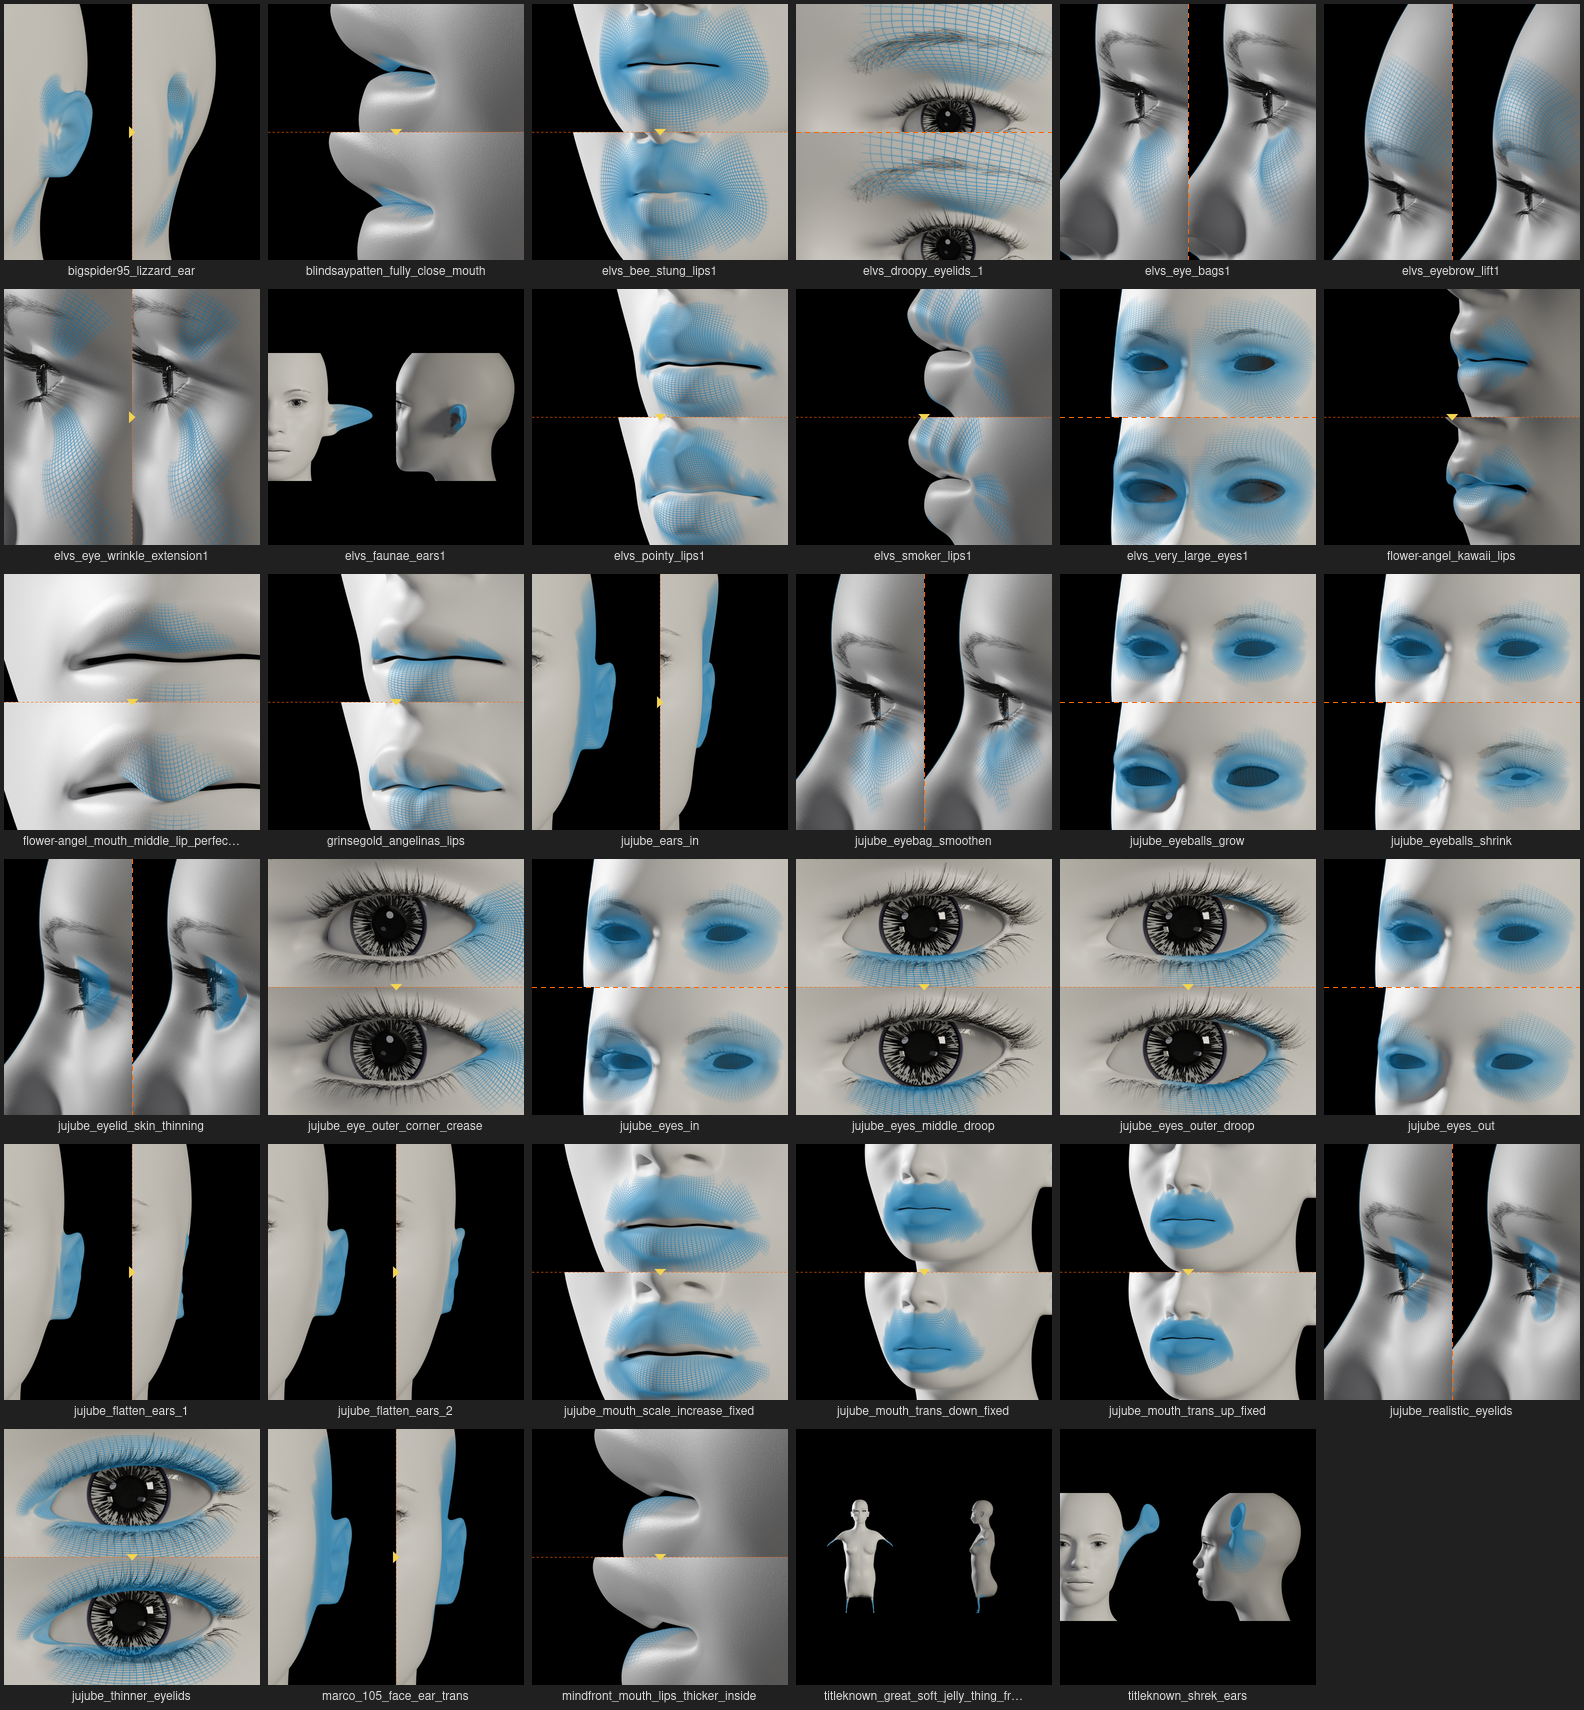
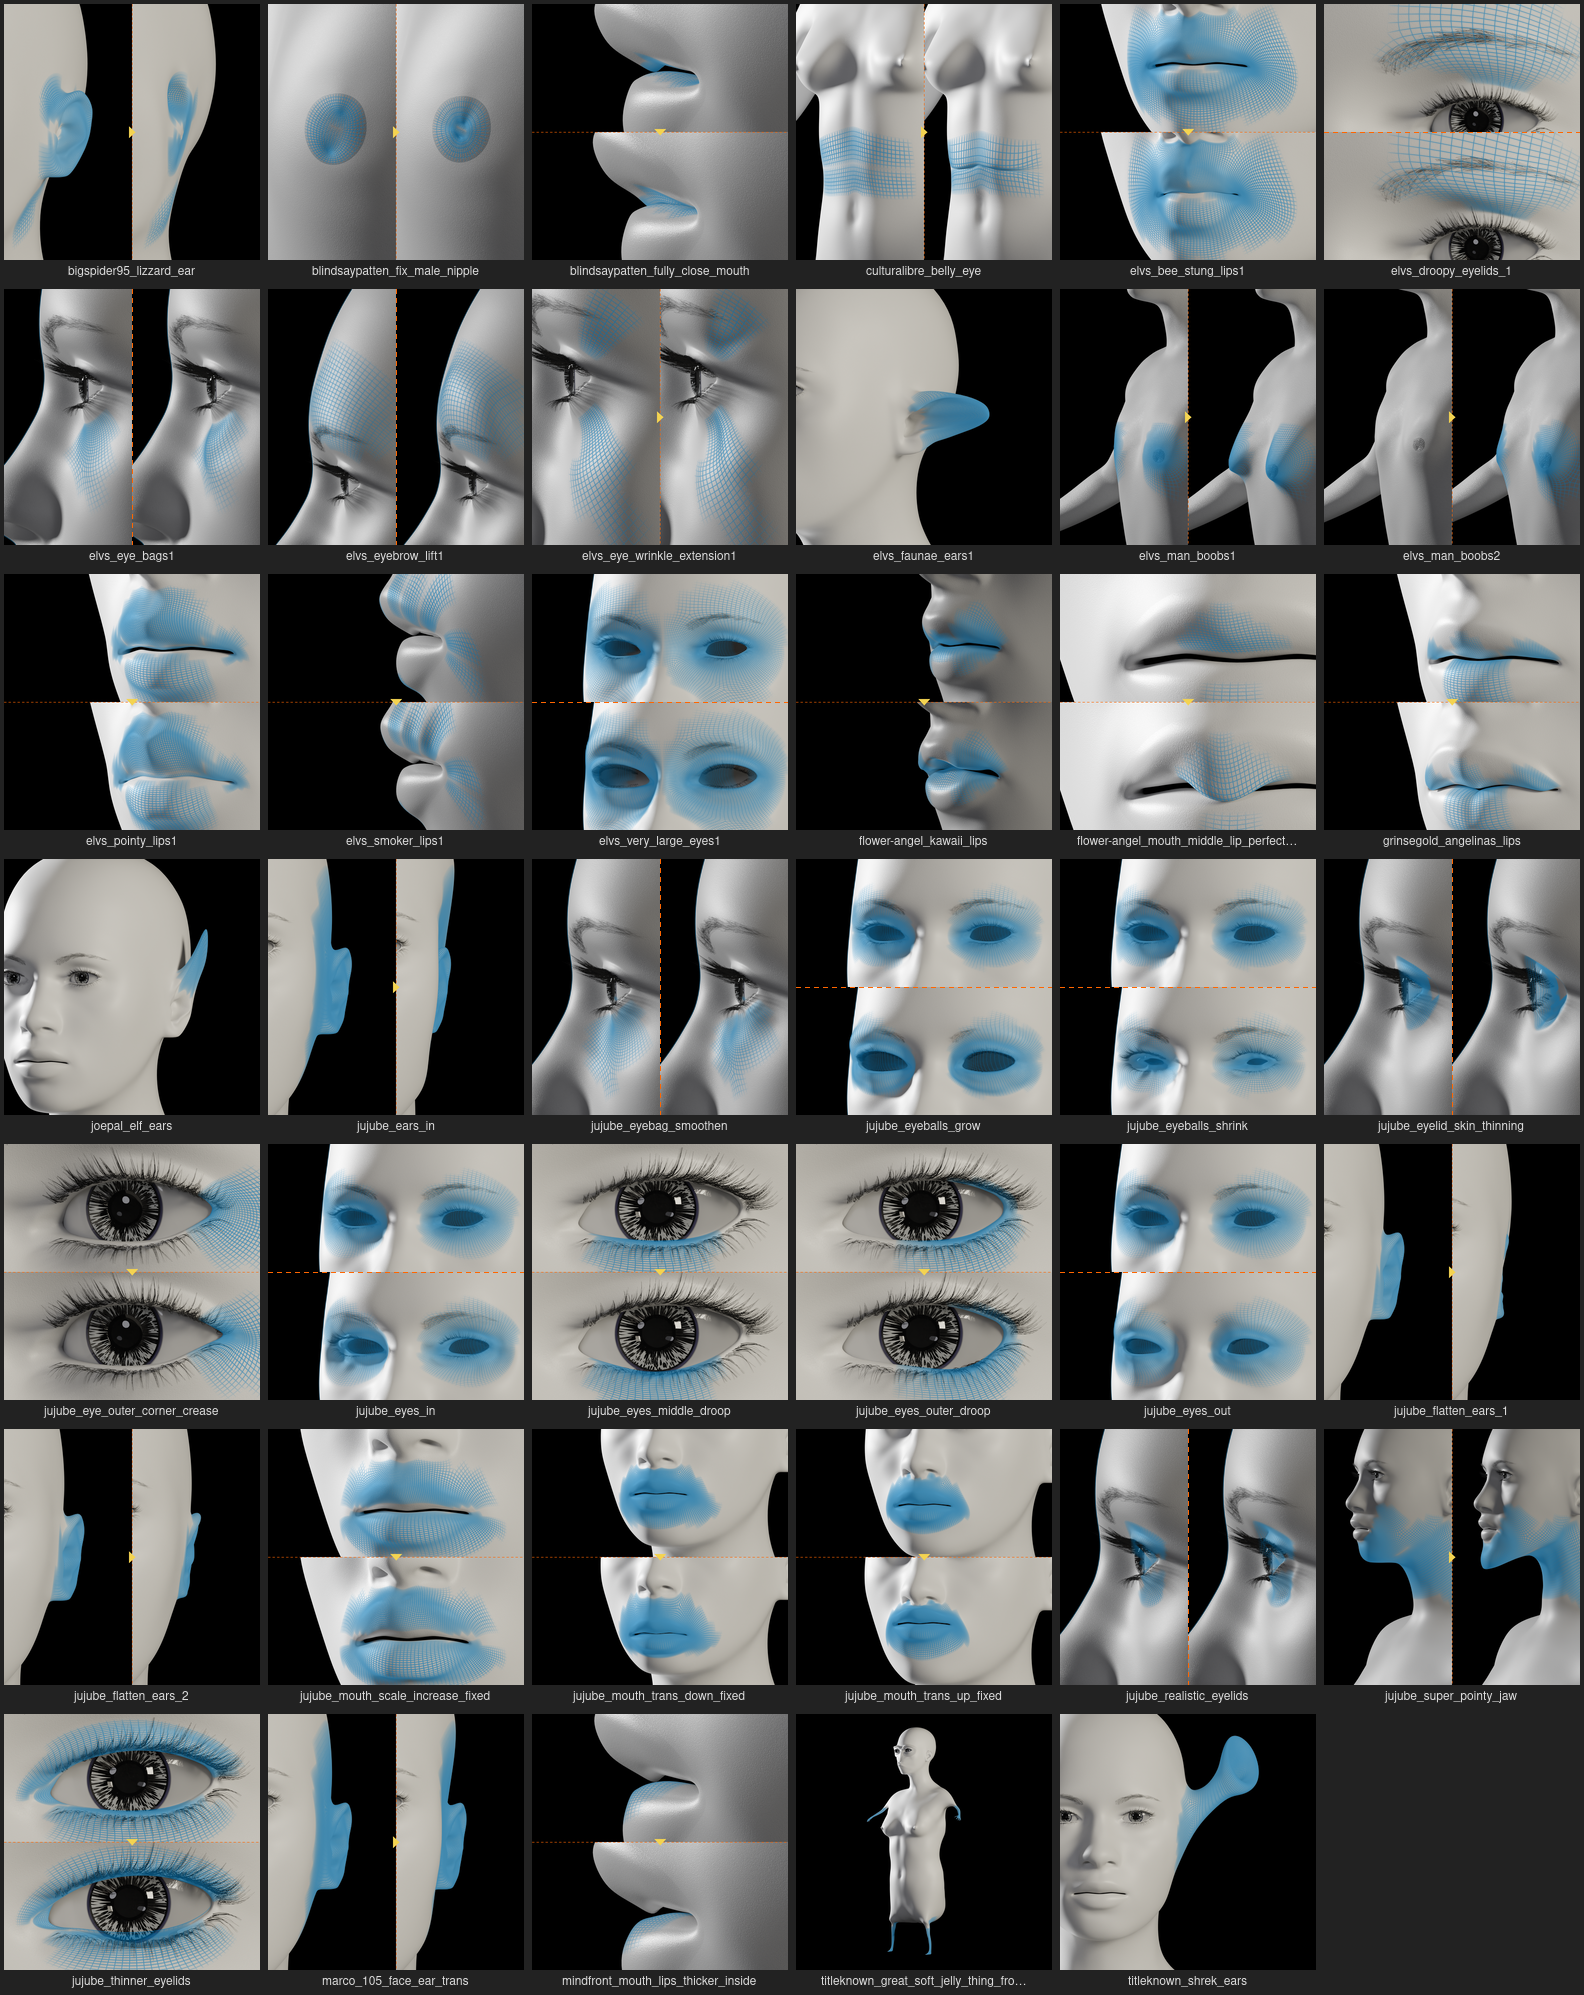
Six more targets reviewed: elf ears, jaw, belly eye, man boobs 1 and 2, male nipple

diff --git a/docs/vignettes-cibles/README.md b/docs/vignettes-cibles/README.md
@@ -1,7 +1,7 @@
 # Thumbnails for community targets
 
-24 thumbnails redone, all displayed in a contact sheet.
-Ears, mouth, 5 eye targets.
+30 thumbnails redone, all displayed in a contact sheet.
+Ears, mouth, jaw, belly, male chest, 5 eye targets.
 
 It uses the wireframe patch, which displays the part of mesh deformed as a blue
 wireframe.
@@ -9,15 +9,21 @@ wireframe.
 <table>
 <tr>
 <td align="center"><img src="vignette-bigspider95_lizzard_ear.png" width="200"><br><sub>bigspider95_lizzard_ear</sub></td>
+<td align="center"><img src="vignette-blindsaypatten_fix_male_nipple.png" width="200"><br><sub>blindsaypatten_fix_male_nipple</sub></td>
 <td align="center"><img src="vignette-blindsaypatten_fully_close_mouth.png" width="200"><br><sub>blindsaypatten_fully_close_mouth</sub></td>
-<td align="center"><img src="vignette-elvs_bee_stung_lips1.png" width="200"><br><sub>elvs_bee_stung_lips1</sub></td>
-<td align="center"><img src="vignette-elvs_droopy_eyelids_1.png" width="200"><br><sub>elvs_droopy_eyelids_1</sub></td>
+<td align="center"><img src="vignette-culturalibre_belly_eye.png" width="200"><br><sub>culturalibre_belly_eye</sub></td>
 </tr>
 <tr>
+<td align="center"><img src="vignette-elvs_bee_stung_lips1.png" width="200"><br><sub>elvs_bee_stung_lips1</sub></td>
+<td align="center"><img src="vignette-elvs_droopy_eyelids_1.png" width="200"><br><sub>elvs_droopy_eyelids_1</sub></td>
 <td align="center"><img src="vignette-elvs_eye_bags1.png" width="200"><br><sub>elvs_eye_bags1</sub></td>
 <td align="center"><img src="vignette-elvs_eye_wrinkle_extension1.png" width="200"><br><sub>elvs_eye_wrinkle_extension1</sub></td>
+</tr>
+<tr>
 <td align="center"><img src="vignette-elvs_eyebrow_lift1.png" width="200"><br><sub>elvs_eyebrow_lift1</sub></td>
 <td align="center"><img src="vignette-elvs_faunae_ears1.png" width="200"><br><sub>elvs_faunae_ears1</sub></td>
+<td align="center"><img src="vignette-elvs_man_boobs1.png" width="200"><br><sub>elvs_man_boobs1</sub></td>
+<td align="center"><img src="vignette-elvs_man_boobs2.png" width="200"><br><sub>elvs_man_boobs2</sub></td>
 </tr>
 <tr>
 <td align="center"><img src="vignette-elvs_pointy_lips1.png" width="200"><br><sub>elvs_pointy_lips1</sub></td>
@@ -26,38 +32,42 @@ wireframe.
 <td align="center"><img src="vignette-flower-angel_kawaii_lips.png" width="200"><br><sub>flower-angel_kawaii_lips</sub></td>
 </tr>
 <tr>
-<td align="center"><img src="vignette-flower-angel_mouth_middle_lip_perfect_scale.png" width="200"><br><sub>flower-angel_mouth_middle_lip_perfect_…</sub></td>
+<td align="center"><img src="vignette-flower-angel_mouth_middle_lip_perfect_scale.png" width="200"><br><sub>flower-angel_mouth_middle_lip_perfect…</sub></td>
 <td align="center"><img src="vignette-grinsegold_angelinas_lips.png" width="200"><br><sub>grinsegold_angelinas_lips</sub></td>
+<td align="center"><img src="vignette-joepal_elf_ears.png" width="200"><br><sub>joepal_elf_ears</sub></td>
 <td align="center"><img src="vignette-jujube_ears_in.png" width="200"><br><sub>jujube_ears_in</sub></td>
-<td align="center"><img src="vignette-jujube_eye_outer_corner_crease.png" width="200"><br><sub>jujube_eye_outer_corner_crease</sub></td>
 </tr>
 <tr>
+<td align="center"><img src="vignette-jujube_eye_outer_corner_crease.png" width="200"><br><sub>jujube_eye_outer_corner_crease</sub></td>
 <td align="center"><img src="vignette-jujube_eyebag_smoothen.png" width="200"><br><sub>jujube_eyebag_smoothen</sub></td>
 <td align="center"><img src="vignette-jujube_eyeballs_grow.png" width="200"><br><sub>jujube_eyeballs_grow</sub></td>
 <td align="center"><img src="vignette-jujube_eyeballs_shrink.png" width="200"><br><sub>jujube_eyeballs_shrink</sub></td>
-<td align="center"><img src="vignette-jujube_eyelid_skin_thinning.png" width="200"><br><sub>jujube_eyelid_skin_thinning</sub></td>
 </tr>
 <tr>
+<td align="center"><img src="vignette-jujube_eyelid_skin_thinning.png" width="200"><br><sub>jujube_eyelid_skin_thinning</sub></td>
 <td align="center"><img src="vignette-jujube_eyes_in.png" width="200"><br><sub>jujube_eyes_in</sub></td>
 <td align="center"><img src="vignette-jujube_eyes_middle_droop.png" width="200"><br><sub>jujube_eyes_middle_droop</sub></td>
 <td align="center"><img src="vignette-jujube_eyes_out.png" width="200"><br><sub>jujube_eyes_out</sub></td>
-<td align="center"><img src="vignette-jujube_eyes_outer_droop.png" width="200"><br><sub>jujube_eyes_outer_droop</sub></td>
 </tr>
 <tr>
+<td align="center"><img src="vignette-jujube_eyes_outer_droop.png" width="200"><br><sub>jujube_eyes_outer_droop</sub></td>
 <td align="center"><img src="vignette-jujube_flatten_ears_1.png" width="200"><br><sub>jujube_flatten_ears_1</sub></td>
 <td align="center"><img src="vignette-jujube_flatten_ears_2.png" width="200"><br><sub>jujube_flatten_ears_2</sub></td>
 <td align="center"><img src="vignette-jujube_mouth_scale_increase_fixed.png" width="200"><br><sub>jujube_mouth_scale_increase_fixed</sub></td>
-<td align="center"><img src="vignette-jujube_mouth_trans_down_fixed.png" width="200"><br><sub>jujube_mouth_trans_down_fixed</sub></td>
 </tr>
 <tr>
+<td align="center"><img src="vignette-jujube_mouth_trans_down_fixed.png" width="200"><br><sub>jujube_mouth_trans_down_fixed</sub></td>
 <td align="center"><img src="vignette-jujube_mouth_trans_up_fixed.png" width="200"><br><sub>jujube_mouth_trans_up_fixed</sub></td>
 <td align="center"><img src="vignette-jujube_realistic_eyelids.png" width="200"><br><sub>jujube_realistic_eyelids</sub></td>
-<td align="center"><img src="vignette-jujube_thinner_eyelids.png" width="200"><br><sub>jujube_thinner_eyelids</sub></td>
-<td align="center"><img src="vignette-marco_105_face_ear_trans.png" width="200"><br><sub>marco_105_face_ear_trans</sub></td>
+<td align="center"><img src="vignette-jujube_super_pointy_jaw.png" width="200"><br><sub>jujube_super_pointy_jaw</sub></td>
 </tr>
 <tr>
+<td align="center"><img src="vignette-jujube_thinner_eyelids.png" width="200"><br><sub>jujube_thinner_eyelids</sub></td>
+<td align="center"><img src="vignette-marco_105_face_ear_trans.png" width="200"><br><sub>marco_105_face_ear_trans</sub></td>
 <td align="center"><img src="vignette-mindfront_mouth_lips_thicker_inside.png" width="200"><br><sub>mindfront_mouth_lips_thicker_inside</sub></td>
-<td align="center"><img src="vignette-titleknown_great_soft_jelly_thing_from_i_have_no_mouth_and_i_must_scream.png" width="200"><br><sub>titleknown_great_soft_jelly_thing_from…</sub></td>
+<td align="center"><img src="vignette-titleknown_great_soft_jelly_thing_from_i_have_no_mouth_and_i_must_scream.png" width="200"><br><sub>titleknown_great_soft_jelly_thing_fro…</sub></td>
+</tr>
+<tr>
 <td align="center"><img src="vignette-titleknown_shrek_ears.png" width="200"><br><sub>titleknown_shrek_ears</sub></td>
 </tr>
 </table>
